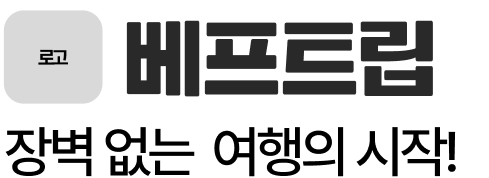
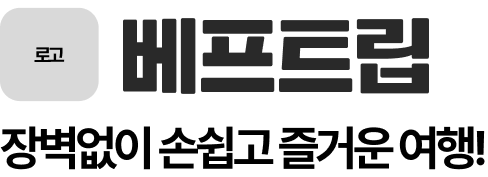
✨ Header 컴포넌트 추가 및 Savelist 페이지 생성

diff --git a/src/components/common/Header.jsx b/src/components/common/Header.jsx
@@ -1,0 +1,38 @@
+import styled from 'styled-components';
+import headerImage from '../../assets/images/header.png'; 
+
+const HeaderContainer = styled.div`
+  width: 24.375rem;
+  height: 4.25rem;
+  flex-shrink: 0;
+  background: #FFF;
+  display: flex;
+`;
+
+const HeaderImage = styled.img`
+  margin-top: 0.69rem;
+  margin-left: 1.19rem;
+  width: auto;
+  height: 2.7rem;  
+`;
+
+const Divider = styled.div`
+  width: 100%;
+  height: 0.38rem;
+  flex-shrink: 0;
+  background: #F7F6FB;;
+`;
+
+const Header = () => {
+  return (
+      <>
+    <HeaderContainer>
+      <HeaderImage src={headerImage} alt="베프트림 헤더" />
+    </HeaderContainer>
+    <Divider />
+    </>
+
+  );
+};
+
+export default Header;

diff --git a/src/App.jsx b/src/App.jsx
@@ -5,6 +5,7 @@ import Course from './pages/course/Course';
 import Onboarding from './pages/onboarding/Onboarding1';
 import RecommendedList from './pages/home/list/RecommendedList';
 import Detail from './pages/home/detail/Detail'; 
+import Savelist from './pages/savelist/Savelist'; 
 
 function App() {
   return (
@@ -16,6 +17,7 @@ function App() {
         <Route path="/on-boarding1" element={<Onboarding />} />
         <Route path="/recommended-list" element={<RecommendedList />} />
         <Route path="/detail" element={<Detail />} /> 
+        <Route path="/save-list" element={<Savelist />} /> 
       </Routes>
     </Router>
   );

diff --git a/src/pages/savelist/Savelist.jsx b/src/pages/savelist/Savelist.jsx
@@ -1,0 +1,28 @@
+import styled from 'styled-components';
+import Header from '../../components/common/Header'; // Header 컴포넌트 import
+
+const SaveListContainer = styled.div`
+  width: 390px;
+  height: 844px;
+  background-color: #fff;
+  overflow-y: auto;
+  padding-bottom: 10em;
+
+  &::-webkit-scrollbar {
+    display: none;
+  }
+  
+  -ms-overflow-style: none;
+  scrollbar-width: none;
+`;
+
+const Savelist = () => {
+  return (
+    <SaveListContainer>
+      <Header />
+      {/* 다른 컴포넌트들 추가 예정 */}
+    </SaveListContainer>
+  );
+};
+
+export default Savelist;
